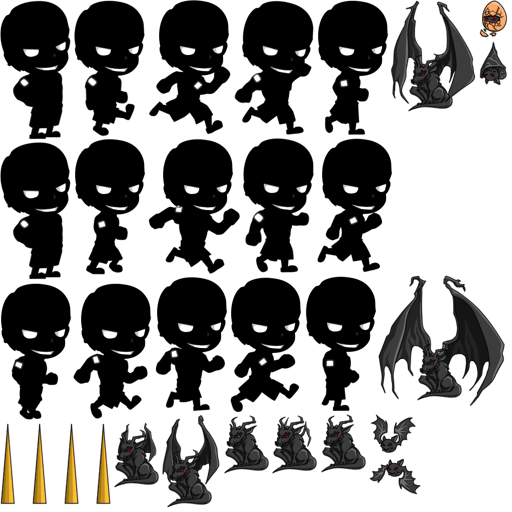
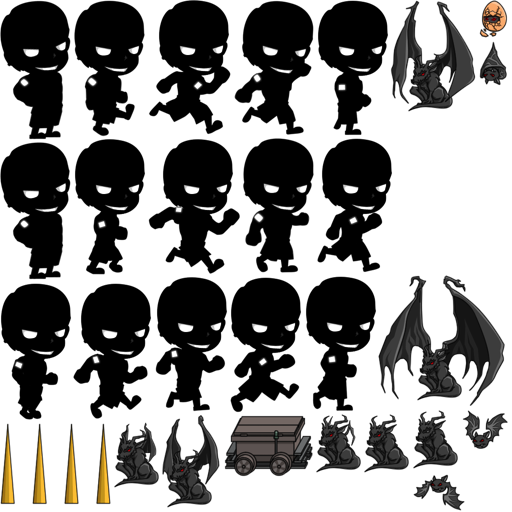
Added a bunch of basic structure for new final boss.

Changed region(s): [[0.4375, 0.6875, 0.9062, 1.0], [0.625, 0.1562, 0.75, 0.2812], [0.9062, 0.8125, 1.0, 0.875]]

diff --git a/Clay/Classes/Game/Bosses/BossFinal.m b/Clay/Classes/Game/Bosses/BossFinal.m
@@ -1,0 +1,102 @@
+//
+//  BossFinal.m
+//  Clay
+//
+//  Created by Brian Cable on 1/8/12.
+//  Copyright (c) 2012 __MyCompanyName__. All rights reserved.
+//
+
+#import "BossFinal.h"
+#import "Sprite.h"
+#import "Player.h"
+#import "LayerManager.h"
+#import "GameLayer.h"
+
+@implementation BossFinal
+
+-(void)startBoss
+{
+    _player = [[LayerManager sharedLayers] getPlayer];
+    _jim = [Sprite spriteWithFile:@"blank.png" AddToLayer:NO];
+    _mineCart = [Sprite spriteWithFile:@"blank.png" AddToLayer:NO];
+    [_mineCart getCCSprite].anchorPoint = ccp(0.5f,0.5f);
+    _firstUpdate = true;
+    _gameLayer = [[LayerManager sharedLayers] currentLayer];
+}
+
+
+-(void)triggerAction:(FinalBossPhase)phase
+{
+    [self setVisible:YES];
+    
+    _phase = phase;
+    
+    switch (phase) {
+        case FINAL_BOSS_ATTACK_1:
+            break;
+        case FINAL_BOSS_ATTACK_2:
+            break;
+        case FINAL_BOSS_ATTACK_3:
+            break;
+        case FINAL_BOSS_ENTER:
+            _mineCartPosition = ccp(_player.x + 600,100);
+            _jimPosition = _mineCartPosition;
+            [_mineCart setPosition:_mineCartPosition];
+            [[AnimationController sharedController] replaceSprite:_jim withAnimationNamed:@"darkShadowTimLaughingAnim"];
+            break;
+        case FINAL_BOSS_DIE:
+            break;
+        case FINAL_BOSS_IDLE:
+            [self setVisible:NO];
+            break;
+        default:
+            break;
+    }
+}
+
+-(void)update:(float)dt
+{
+    if (_firstUpdate) {
+        [self firstUpdate];
+    }
+    
+    switch (_phase) {
+        case FINAL_BOSS_ENTER:
+            [self updateBossEntrance:dt];
+            break;
+            
+        default:
+            break;
+    }
+}
+
+-(void)firstUpdate
+{
+    [_gameLayer addChild:[_jim getCCSprite]];
+    [_gameLayer addChild:[_mineCart getCCSprite]];
+    _firstUpdate = false;
+}
+
+-(void)updateBossEntrance:(float)dt
+{
+    float speed = 20.0f * dt;
+    _mineCartPosition.x -= speed;
+    _jimPosition.x = _mineCartPosition.x;
+    _jimPosition.y = _mineCartPosition.y + 20.0f;
+    [_mineCart setPosition:_mineCartPosition];
+    [_jim setPosition:_jimPosition];
+}
+
+-(void)setVisible:(_Bool)isVisible
+{
+    [[_jim getCCSprite] setVisible:isVisible];
+    [[_mineCart getCCSprite] setVisible:isVisible];
+}
+
+-(void)changeAnimationSpeed:(float)modifier
+{
+    [[_jim getAnimation] changeAnimationSpeed:modifier];
+    [[_mineCart getAnimation] changeAnimationSpeed:modifier];
+}
+
+@end

diff --git a/Clay/Classes/Game/Bosses/BossFinal.h b/Clay/Classes/Game/Bosses/BossFinal.h
@@ -1,0 +1,38 @@
+//
+//  BossFinal.h
+//  Clay
+//
+//  Created by Brian Cable on 1/8/12.
+//  Copyright (c) 2012 __MyCompanyName__. All rights reserved.
+//
+
+#import <Foundation/Foundation.h>
+#import "cocos2d.h"
+#import "Boss.h"
+
+@class Sprite;
+@class Player;
+@class GameLayer;
+
+@interface BossFinal : Boss
+{
+    Sprite *_jim;
+    Sprite *_mineCart;
+    CGPoint _jimPosition;
+    CGPoint _mineCartPosition;
+    
+    FinalBossPhase _phase;
+    
+    
+    //weak reference
+    Player *_player;
+    GameLayer *_gameLayer;
+    
+    bool _firstUpdate;
+}
+
+-(void)triggerAction:(FinalBossPhase)phase;
+-(void)setVisible:(bool)isVisible;
+-(void)firstUpdate;
+-(void)updateBossEntrance:(float)dt;
+@end

diff --git a/Clay/Classes/Game/Bosses/BossFactory.m b/Clay/Classes/Game/Bosses/BossFactory.m
@@ -9,6 +9,7 @@
 #import "BossFactory.h"
 
 #import "BossFinalJim.h"
+#import "BossFinal.h"
 #import "BossJimShip.h"
 
 @implementation BossFactory
@@ -21,6 +22,9 @@
             break;
         case BOSS_FINAL_JIM:
             return [BossFinalJim instance];
+            break;
+        case BOSS_FINAL_BOSS:
+            return [BossFinal instance];
             break;
         default:
             //NSLog(@"BossFactory:build - Error! Not yet implemented.");

diff --git a/Clay/Classes/Game/Bosses/Boss.h b/Clay/Classes/Game/Bosses/Boss.h
@@ -16,6 +16,14 @@
 
 @end
 
+typedef enum {
+    FINAL_BOSS_ATTACK_1,
+    FINAL_BOSS_ATTACK_2,
+    FINAL_BOSS_ATTACK_3,
+    FINAL_BOSS_IDLE,
+    FINAL_BOSS_ENTER,
+    FINAL_BOSS_DIE
+}FinalBossPhase;
 
 typedef enum {
     BOSS_PHASE_NOT_TRIGGERED = 0,
@@ -53,4 +61,5 @@ typedef enum {
 -(void)triggerAttack3;
 -(void)triggerFallBack;
 -(void)triggerGetCloser;
+-(void)triggerAction:(FinalBossPhase)phase;
 @end

diff --git a/Clay/Classes/Base/Trigger.h b/Clay/Classes/Base/Trigger.h
@@ -21,7 +21,12 @@ typedef enum {
     TRIGGER_SHIP_SHOOT_MEGACANNON,
     TRIGGER_SHIP_SHOOT_COMBO,
     TRIGGER_SHIP_ENTER,
-    TRIGGER_SHIP_EXIT
+    TRIGGER_SHIP_EXIT,
+    TRIGGER_FINAL_BOSS_ENTER,
+    TRIGGER_FINAL_BOSS_DIE,
+    TRIGGER_FINAL_BOSS_ATTACK1,
+    TRIGGER_FINAL_BOSS_ATTACK2,
+    TRIGGER_FINAL_BOSS_ATTACK3
 }TriggerType;
 
 @interface Trigger : NSObject

diff --git a/Clay/Classes/Game/Bosses/BossFactory.h b/Clay/Classes/Game/Bosses/BossFactory.h
@@ -10,7 +10,8 @@
 
 typedef enum {
     BOSS_SPACESHIP,
-    BOSS_FINAL_JIM
+    BOSS_FINAL_JIM,
+    BOSS_FINAL_BOSS
 }BossType;
 
 @interface BossFactory : Boss

diff --git a/Clay/Classes/Game/Bosses/Boss.m b/Clay/Classes/Game/Bosses/Boss.m
@@ -89,5 +89,10 @@
     
 }
 
+-(void)triggerAction:(FinalBossPhase)phase
+{
+    
+}
+
 
 @end
